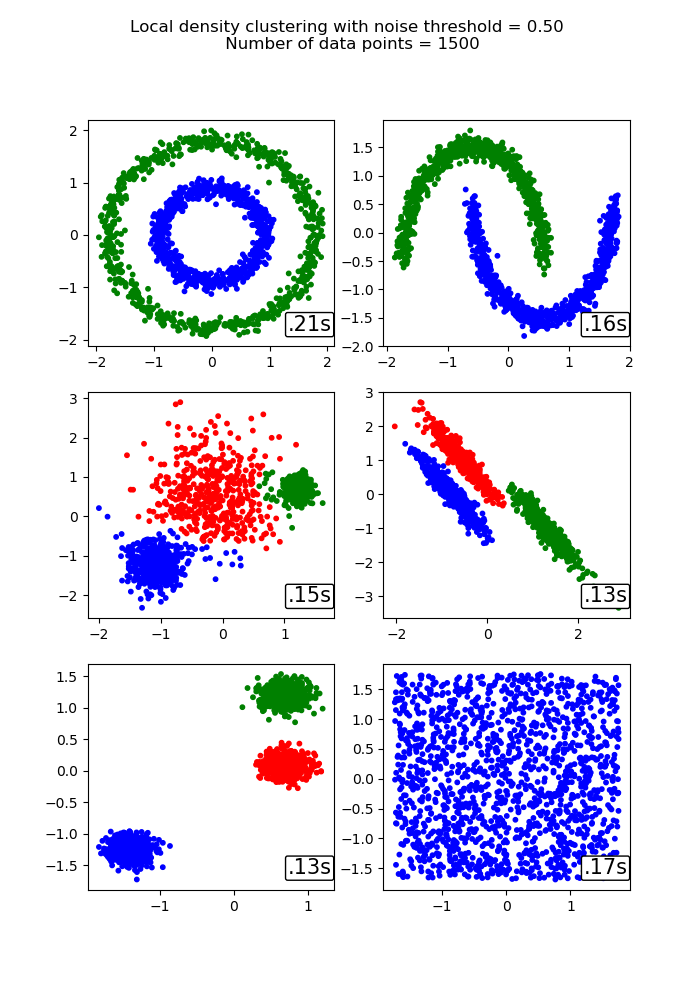
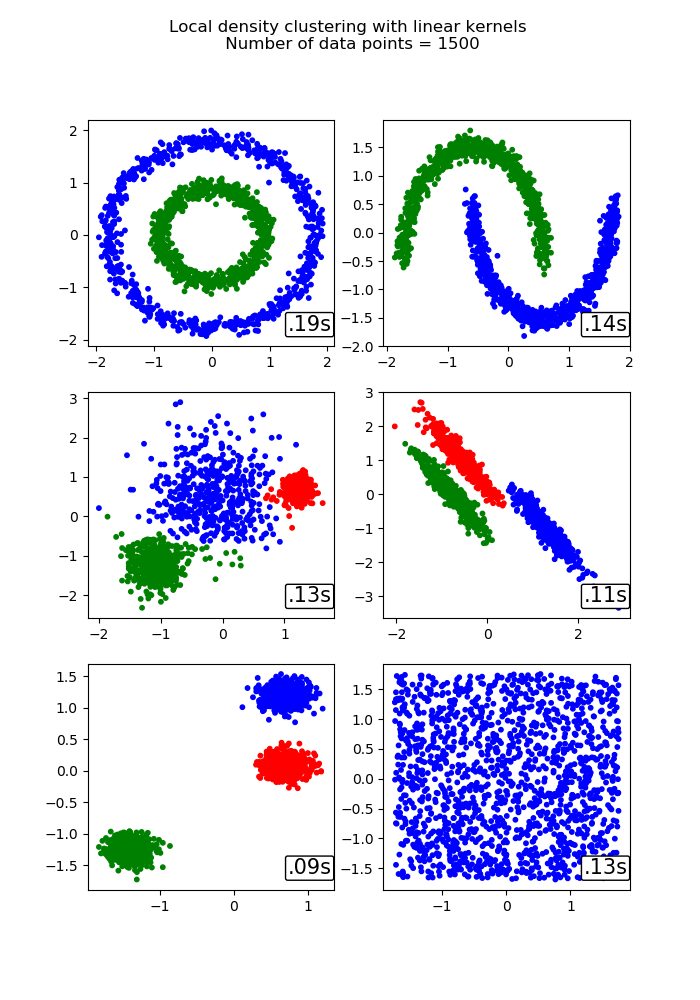
faster kernel sums

diff --git a/fdc/fdc.py b/fdc/fdc.py
@@ -70,6 +70,9 @@ class FDC:
     search_size: int, optional (default = 20)
         when performing search over neighborhoods, size of each local neighborhood to check when
         expanding. This drastically slows the coarse-graining if chosen to be too big !
+
+    kernel: str, optional (default='gaussian')
+        Type of Kernel to use for density estimates. Other options are {'epanechnikov'|'linear','tophat'}.
     """
 
     def __init__(self, nh_size='auto', eta=0.5,
@@ -79,7 +82,8 @@ class FDC:
                 rtol=0.00005,
                 xtol=0.01,
                 search_size = 20,
-                n_cluster_init = None
+                n_cluster_init = None,
+                kernel = 'gaussian'
     ):
 
         self.test_ratio_size = test_ratio_size
@@ -95,7 +99,8 @@ class FDC:
         self.cluster_label = None
         self.search_size = search_size
         self.n_cluster_init = n_cluster_init
-
+        self.kernel = kernel
+    #@profile
     def fit(self, X):
         """ Performs density clustering on given data set
 
@@ -172,6 +177,7 @@ class FDC:
         self.__dict__.update(pickle.load(open(name,'rb')).__dict__)
         return self
 
+    #@profile
     def check_cluster_stability_fast(self, X, eta = None): # given 
         if self.verbose == 0:
             blockPrint()
@@ -191,6 +197,7 @@ class FDC:
                 
         enablePrint()
 
+   # @profile
     def fit_density(self, X):
         # nearest neighbors class
         self.nbrs = NearestNeighbors(n_neighbors = self.nh_size, algorithm='kd_tree').fit(X)  
@@ -200,19 +207,21 @@ class FDC:
 
         # density model class
         self.density_model = KDE(bandwidth=self.bandwidth, test_ratio_size=self.test_ratio_size,
-            atol=self.atol,rtol=self.rtol,xtol=self.xtol, nn_dist = self.nn_dist)
+            atol=self.atol,rtol=self.rtol,xtol=self.xtol, nn_dist = self.nn_dist, kernel=self.kernel)
         
         # fit density model to data
         print("[fdc] Computing density ...")
+        
         self.density_model.fit(X)
-
+        
         self.bandwidth = self.density_model.bandwidth
         
         print("[fdc] Computing density ...")
         # compute density map based on kernel density model
         self.rho = self.density_model.evaluate_density(X)
         return self
-
+    
+    #@profile
     def coarse_grain(self, noise_iterable):
         """Started from an initial noise scale, progressively merges clusters.
         If specified, saves the cluster assignments at every level of the coarse graining if specified.
@@ -262,7 +271,8 @@ class FDC:
         enablePrint()
 
         return self 
- 
+    
+    #@profile
     def compute_delta(self, X, rho = None):
         """
         Purpose:
@@ -327,7 +337,7 @@ class FDC:
         self.idx_centers = idx_centers
         self.cluster_label = cluster_label
 
-
+    #@profile
     def find_NH_tree_search(self, idx, eta, cluster_label):
         """
         Function for searching for nearest neighbors within
@@ -347,11 +357,11 @@ class FDC:
         new_leaves=nn_list[idx][:self.search_size]
         
         is_NH = np.zeros(len(self.nn_list),dtype=np.int)
-        #is_NH[new_leaves] =1
+
         is_NH[new_leaves[rho[new_leaves] > eta]] = 1
-        #is_NH[nn_list[idx][1:self.nh_size]] = 1 
-        #NH=set(nn_list[idx][1:self.nh_size])  # starts from the initial minimal neighborhood set by user 
+  
         current_label = cluster_label[idx]
+
         # ideally here we cythonize what's below... this is highly ineficient ...
         while True:
             update = False
@@ -405,6 +415,7 @@ class FDC:
 #####################################################
 #####################################################
 
+#@profile
 def index_greater(array, prec=1e-8):
     """
     Purpose:

diff --git a/fdc/density_estimation.py b/fdc/density_estimation.py
@@ -28,7 +28,7 @@ class KDE():
 
     def __init__(self, bandwidth = None, test_ratio_size = 0.1,
                 xtol = 0.01, atol=0.000005, rtol=0.00005, extreme_dist = False,
-                nn_dist = None):
+                nn_dist = None, kernel = 'gaussian'):
                 
         self.bandwidth = bandwidth
         self.test_ratio_size = test_ratio_size
@@ -37,6 +37,7 @@ class KDE():
         self.rtol = rtol
         self.extreme_dist = extreme_dist
         self.nn_dist = nn_dist
+        self.kernel = kernel # epanechnikov other option
     
     def fit(self, X):
         """Fit kernel model to X"""
@@ -45,7 +46,7 @@ class KDE():
         else:
             self.kde=KernelDensity(
                 bandwidth=self.bandwidth, algorithm='kd_tree', 
-                kernel='gaussian', metric='euclidean',
+                kernel=self.kernel, metric='euclidean',
                 atol=self.atol, rtol=self.rtol, 
                 breadth_first=True, leaf_size=40
             )
@@ -117,7 +118,7 @@ class KDE():
     def log_likelihood_test_set(self, bandwidth, X_train, X_test):
         """Fit the kde model on the training set given some bandwidth and evaluates the log-likelihood of the test set
         """
-        self.kde = KernelDensity(bandwidth=bandwidth, algorithm='kd_tree', atol=self.atol, rtol=self.rtol,leaf_size=40)
+        self.kde = KernelDensity(bandwidth=bandwidth, algorithm='kd_tree', atol=self.atol, rtol=self.rtol,leaf_size=40, kernel=self.kernel)
         self.kde.fit(X_train) 
         return -self.kde.score(X_test)
 

diff --git a/fdc/plotting.py b/fdc/plotting.py
@@ -187,8 +187,7 @@ plot_to_show = None
         plt.savefig(savefile, dpi=300)
     if show is True:
         plt.show()
-
-    plt.clf()
+        plt.clf()
 
 def summary_model(model, eta=None, ytrue = None, show=True, savefile = None, eta_show = True):
     """ Summary figure passing in only an FDC object (model), noise can be specified via the eta parameter """
@@ -500,7 +499,7 @@ def my_scatter(x, y, z, ax):
     ax.scatter(x_bot, y_bot, c = "purple", s=4)
     ax.scatter(x_top, y_top, c = "#00FF00",s=4)
 
-def select_data(X, y, X_original = None, option = None, loop=False):
+def select_data(X, y, X_original = None, option = None, loop=False, kwargs=None):
     from .widget import Highlighter
     # Taking selection from the user, will plot an histogram of the underlying data (default)
     # Other options are {mnist, etc. etc.}
@@ -511,8 +510,11 @@ def select_data(X, y, X_original = None, option = None, loop=False):
     if option == 'mnist':
 
         for _ in range(n_repeat):
+            if kwargs is not None:
+                ax = cluster_w_label(X, y, show=False, **kwargs)
+            else:
+                ax = cluster_w_label(X, y, show=False)
 
-            ax = cluster_w_label(X, y, show=False)
             highlighter = Highlighter(ax, X[:,0], X[:,1])
             selected_regions = highlighter.mask
             plt.close()

diff --git a/example/example2.py b/example/example2.py
@@ -59,8 +59,6 @@ fig= plt.figure(figsize=(7, 10))
 Setting FDC parameters (note these are the same across all datasets)
 """
 
-noise_threshold = 0.5
-
 datasets = [noisy_circles, noisy_moons, varied, aniso, blobs, no_structure]
 for i_dataset, dataset in enumerate(datasets):
     X, y = dataset
@@ -69,7 +67,7 @@ for i_dataset, dataset in enumerate(datasets):
 
     # create clustering estimators
 
-    model = FDC(eta=noise_threshold, test_ratio_size=0.9)
+    model = FDC(kernel='linear')
 
     s=time.time()
 
@@ -90,7 +88,7 @@ for i_dataset, dataset in enumerate(datasets):
 
     plot_num+=1
 
-plt.suptitle("Local density clustering with noise threshold = %.2f \n Number of data points = %i"%(noise_threshold,n_samples))
+plt.suptitle("Local density clustering with linear kernels \n Number of data points = %i"%(n_samples))
 
 plt.savefig("sklearn_datasets.png")
 fig.tight_layout(rect=[0, 0.03, 1, 0.95])

diff --git a/example/example.py b/example/example.py
@@ -23,6 +23,9 @@ X, y = make_blobs(10000, 2, n_true_center) # Generating random gaussian mixture
 
 model = FDC(eta=0.05, test_ratio_size=0.1)
 
+#@profile
+#np.sum(np.arange(0,1000))
+
 model.fit(X) # performing the clustering
 
 plotting.set_nice_font() # nicer plotting font !

diff --git a/setup.py b/setup.py
@@ -11,3 +11,4 @@ setup(name='fdc',
       packages=['fdc'],
       zip_safe=False,
       )
+
